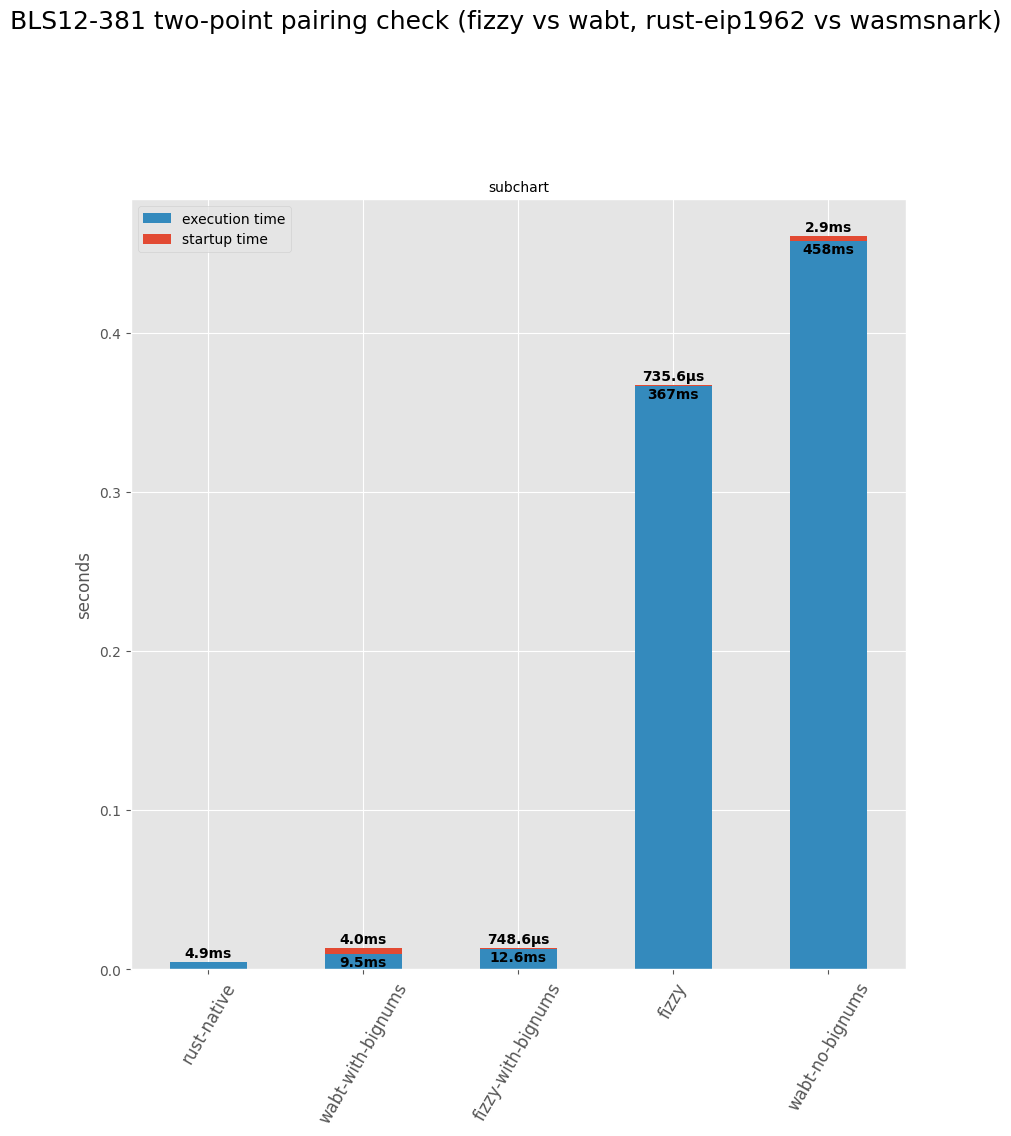
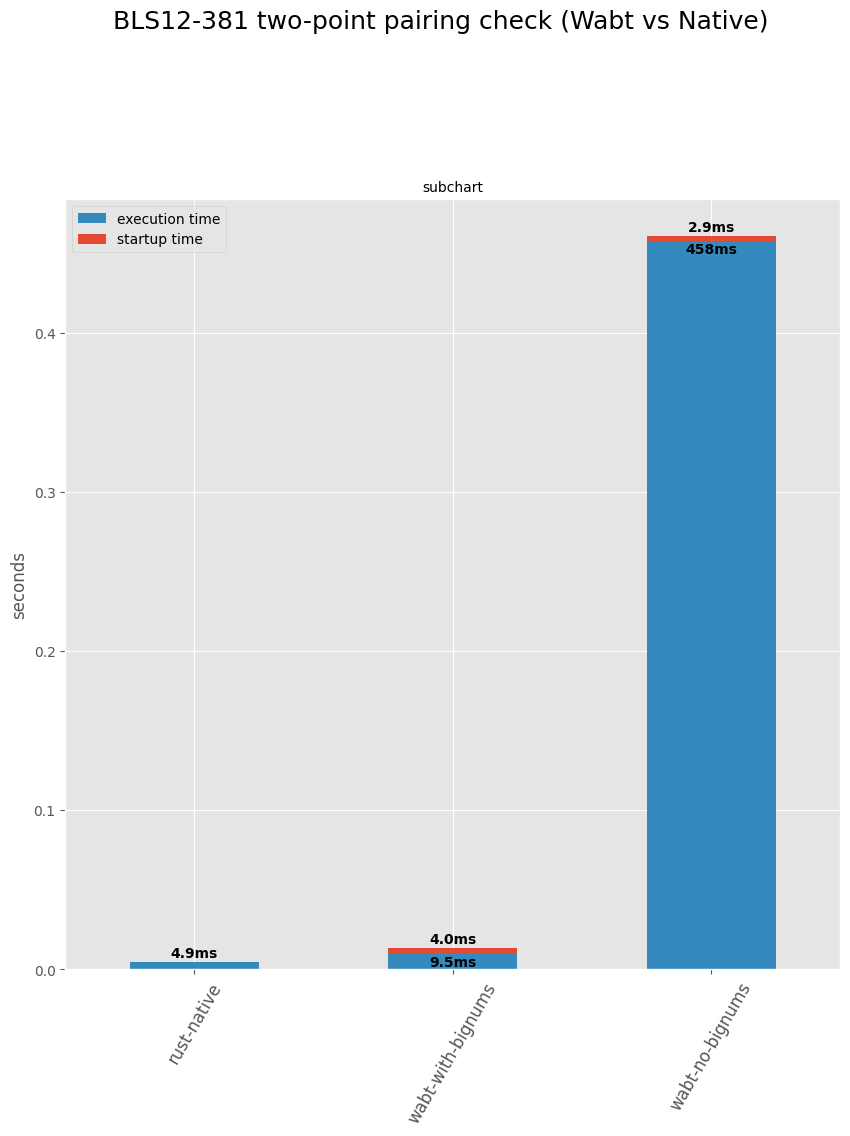
simplify wabt w/ w/o bignums vs native graph

diff --git a/notebooks/wasm-engines.py b/notebooks/wasm-engines.py
@@ -3837,9 +3837,13 @@ df_fizzy_bls12
 
 # In[186]:
 
+import pdb; pdb.set_trace()
+# df_fizzy_bls12 = df_fizzy_bls12[df_fizzy_bls12.
+wasm_engines_evm384 = df_fizzy_bls12[df_fizzy_bls12.index.isin(['rust-native', 'wabt-no-bignums', 'wabt-with-bignums'])]
 
-fig_plt = plotScoutStackedTest(df_fizzy_bls12,
-            suptitle="BLS12-381 two-point pairing check (fizzy vs wabt, rust-eip1962 vs wasmsnark)",
+
+fig_plt = plotScoutStackedTest(wasm_engines_evm384,
+            suptitle="BLS12-381 two-point pairing check (Wabt vs Native)",
             suptitle_pos=1.07,
             #subtitle="ecpairing-zkrollup-websnark-bn128-two-pairings\n",
             #subtitle_size='xx-large'
@@ -4277,7 +4281,6 @@ df_evm384_wasm_synth_loop.set_index('engine_bench_name', inplace=True)
 # wabt-with-bignums,bls12-two-pairings
 # evmone384, evm384-synth-loop-v2 * adjustment_factor
 
-import pdb; pdb.set_trace()
 
 df_summary_evm384 = df_fizzy_bls12[df_fizzy_bls12.index.isin(['rust-native', 'wabt-with-bignums'])].copy().rename(columns={"exec_time": "time"})
 sl = df_evm384_wasm_synth_loop.copy()
@@ -4307,7 +4310,6 @@ df_summary_evm384['time'][2] *= 1.24
 # In[222]:
 
 
-# import pdb; pdb.set_trace()
 # x = df_evm384_wasm_synth_loop
 # x["time"][0] *= 1.24
 # x["time"][1] *= 1.24
